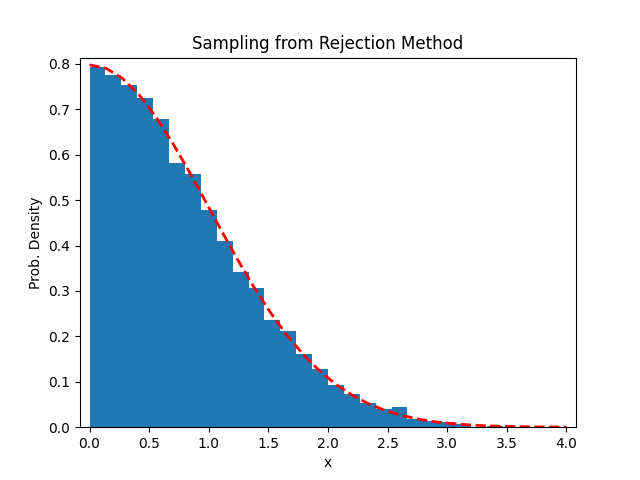
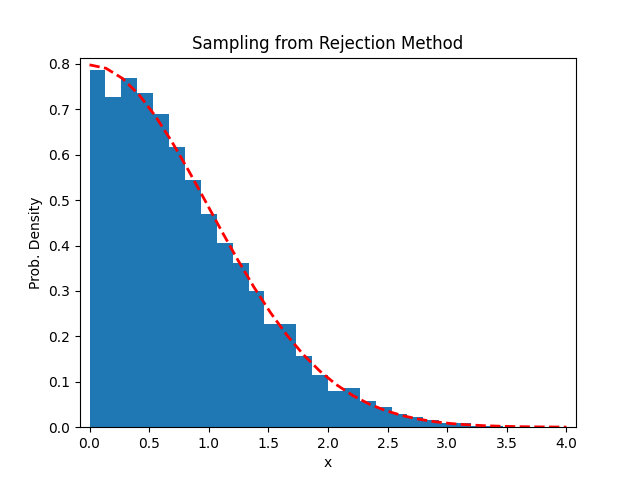
Assignment 3 second draft

diff --git a/Assignment3/Question9/solution.py b/Assignment3/Question9/solution.py
@@ -1,0 +1,70 @@
+'''
+This script provides the solution
+for Question 9 of Assignment 3
+'''
+
+import sys
+from pathlib import Path
+
+# Python imports
+import numpy as np
+
+# Add the Utils Module
+p = Path(__file__).parents[2]
+sys.path.append(str(p))
+
+# Utils module imports
+from Utils.mc_routines import metropolis, rng
+from Utils.colors import red
+from Utils.plt_creator import plt_creator
+
+# proposal pdf (walker)
+def proposal(theta):
+    theta_p = rng.normal(loc = theta, scale=0.2)
+    return theta_p
+
+# target distribution
+def target(theta):
+    pdf = 0.25*((theta > 3) & (theta < 7))
+    return pdf
+
+# params
+ndim = 1
+npoints = 100000
+theta_i = np.ones(ndim)*3.1
+
+# sample list
+sample = [theta_i]
+
+# sampler
+for i in range(npoints):
+    sample.append(metropolis(sample[-1], proposal, target, ndim))
+sample = sample[1:]
+
+# Initialise plot
+plt = plt_creator(
+    title="Uniform (Metropolis)", 
+    xLabel="x", 
+    yLabel="Prob. Density",
+    xMargin=0.02, 
+    yMargin=0.02
+)
+
+# Plot params
+Range = (1, 9)
+nbins = 40
+x_space = np.linspace(Range[0], Range[1], nbins)
+
+# Histogram
+plt.hist([A[0] for A in sample], density=True, range=Range, bins=nbins)
+
+# Uniform pdf
+plt.plot(
+    x_space, 
+    target(x_space), 
+    color=red, 
+    linestyle = '--', 
+    linewidth=2
+)
+
+plt.savefig("Results/Metropolis.png")

diff --git a/Assignment3/Question6/solution.py b/Assignment3/Question6/solution.py
@@ -15,6 +15,7 @@ p = Path(__file__).parents[2]
 sys.path.append(str(p))
 
 # Utils module imports
+from Utils.mc_routines import AcptRejSample
 from Utils.colors import red
 from Utils.plt_creator import plt_creator
 
@@ -23,20 +24,10 @@ from Utils.plt_creator import plt_creator
 def dist(x):
     return sqrt(2/pi)*np.exp(-0.5*x**2)
 
-# Initialise RNG
-rng = np.random.default_rng()
-
-# Rejection sampling
-def getNextSample(range, dist=dist):
-    x = rng.uniform(low=range[0], high=range[1])
-    while (dist(x) < rng.uniform()):
-        x = rng.uniform(low=range[0], high=range[1])
-    return x
-
 # Get samples
 N_samples = 10000
 Range = (0,4)
-Samples = [getNextSample(Range) for i in range(N_samples)]
+Samples = [AcptRejSample(Range, 1.0, dist) for i in range(N_samples)]
 
 # Initialise plot
 plt = plt_creator(

diff --git a/Utils/mc_routines.py b/Utils/mc_routines.py
@@ -1,0 +1,28 @@
+# Script Containing Monte-Carlo Methods
+
+# Python imports
+import numpy as np
+
+# Initialise RNG
+rng = np.random.default_rng()
+
+# Acceptance-Rejection sampling method
+def AcptRejSample(range, height, dist):
+
+    # create new sample point
+    x = rng.uniform(low=range[0], high=range[1])
+
+    # Accept/Reject the sample point
+    while (dist(x) < rng.uniform()*height):
+        x = rng.uniform(low=range[0], high=range[1])
+
+    return x
+
+
+# Metropolis Algorithm
+def metropolis(theta_i, proposal, target, ndim):
+    theta = theta_i
+    while (all(theta==theta_i)):
+        temp = proposal(theta_i)
+        theta = temp if all(target(temp)/target(theta_i) > rng.uniform(size = ndim)) else theta_i
+    return theta
